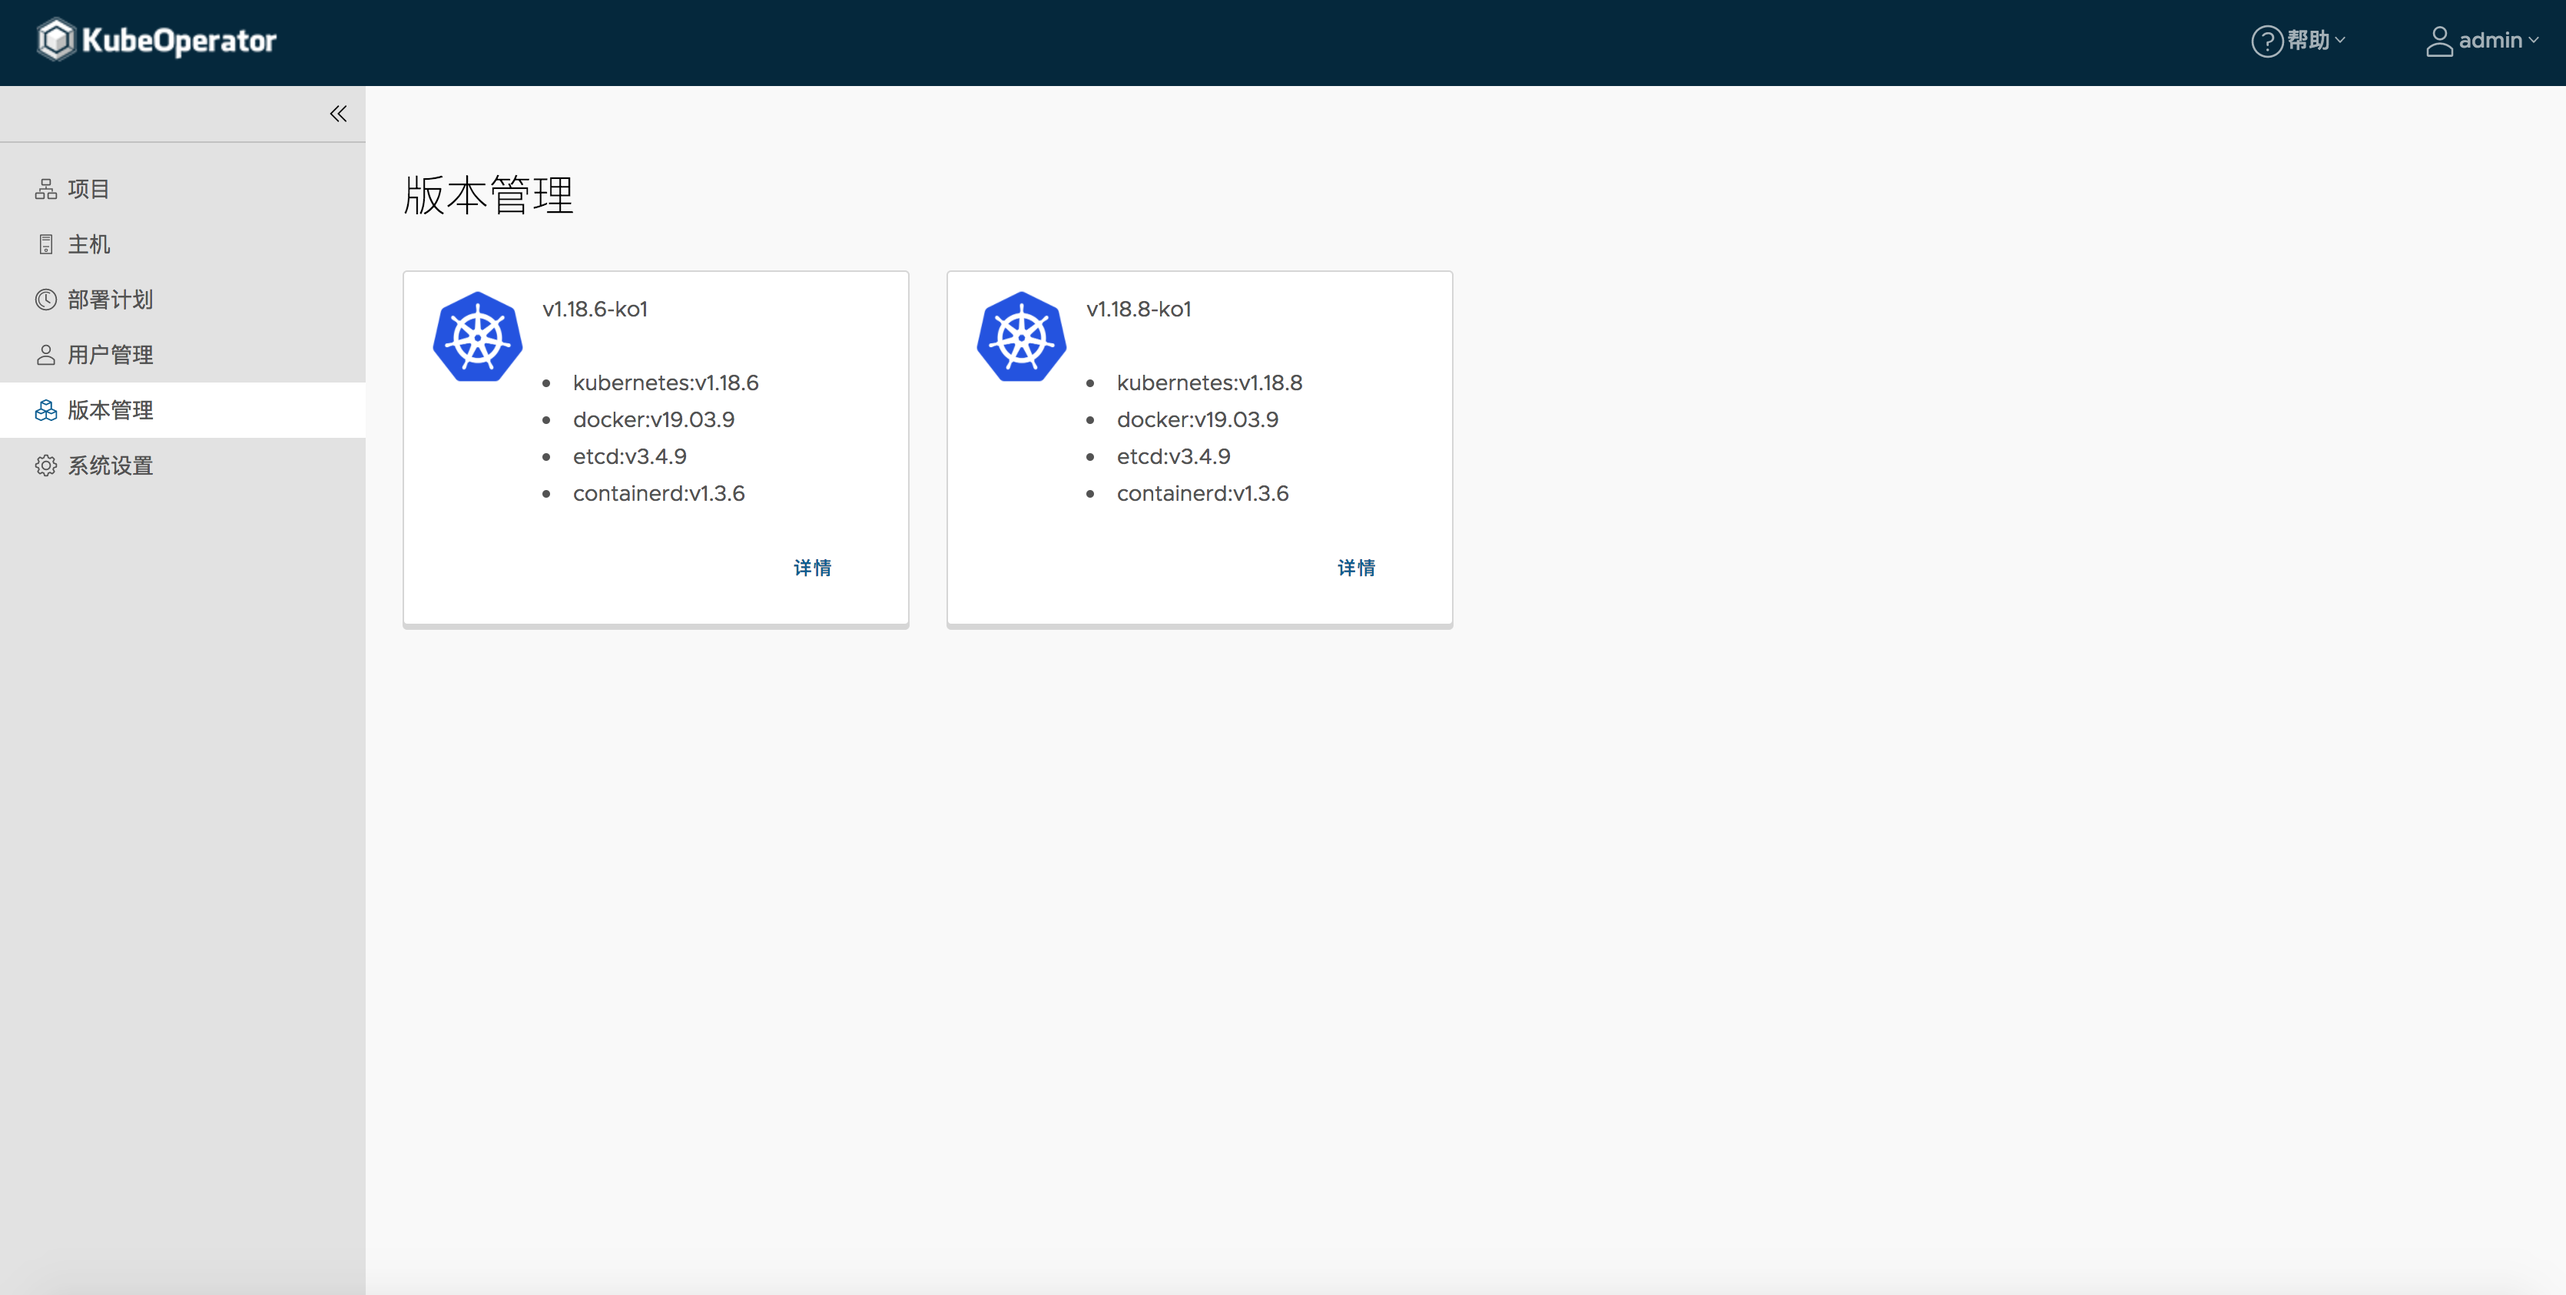
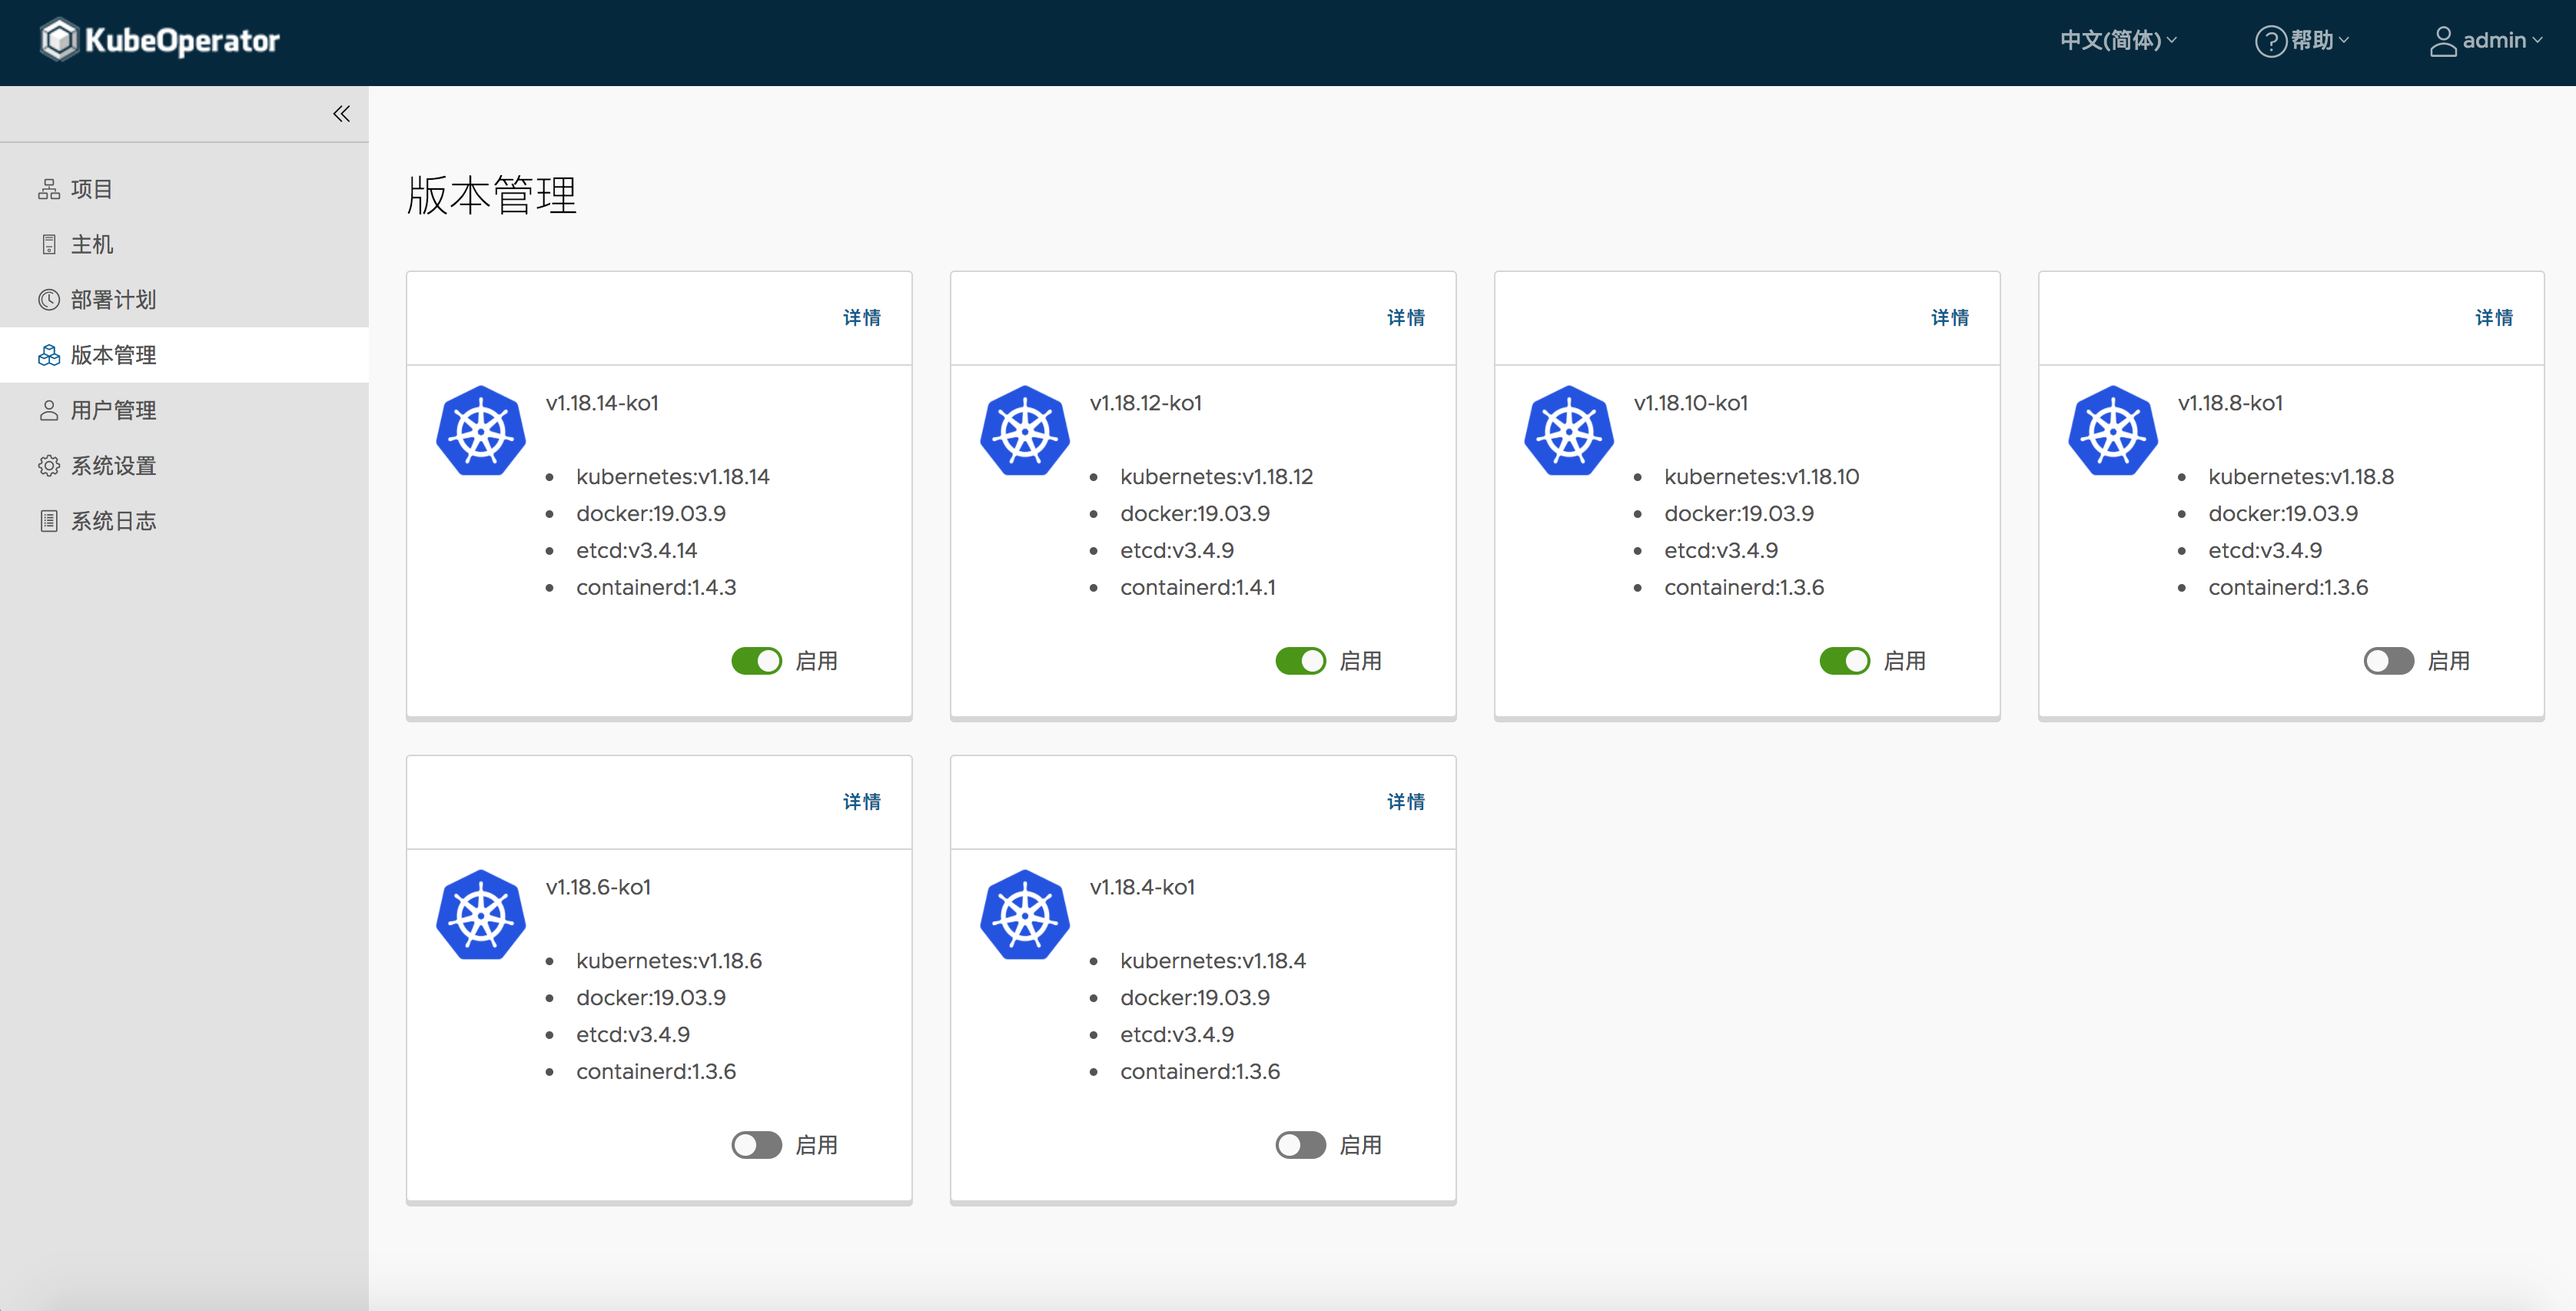
版本管理

diff --git a/docs/user_manual/version.md b/docs/user_manual/version.md
@@ -1,28 +1,73 @@
 
+### 版本详情
+
 !!! warning ""
-    用户可以在Web页面查看 Kubernetes 及各个组件的版本信息，方便管理员进行维护和升级
+    点击详情按钮，支持查看 Kubernetes 及各个组件的版本信息
+
+!!! info "核心"
+    * [kubernetes](https://github.com/kubernetes/kubernetes) v1.18.14
+    * [etcd](https://github.com/coreos/etcd) v3.4.14
+    * [docker](https://www.docker.com/) 19.03.9
+    * [containerd](https://containerd.io/) 1.4.3
+
+!!! info "网络"
+    * [calico](https://github.com/projectcalico/calico) v3.16.5
+    * [flanneld](https://github.com/coreos/flannel) v0.13.0
+
+!!! info "应用"
+    * [coredns](https://github.com/coredns/coredns) 1.8.0
+    * [traefik](https://github.com/containous/traefik) v2.2.1
+    * [ingress-nginx](https://github.com/kubernetes/ingress-nginx) 0.33.0
+    * [metrics-server](https://github.com/kubernetes-sigs/metrics-server) v0.3.6
+    * [helm-v2](https://github.com/helm/helm) v2.17.0
+    * [helm-v3](https://github.com/helm/helm) v3.4.1
+
+### 版本启用
+
+!!! warning ""
+    开启目标版本后，才支持创建该版本 k8s 集群
 
 ![region-1](../img/user_manual/version/version-1.png)
 
-![region-1](../img/user_manual/version/version-2.png)
+### 构建离线包
 
-!!! info "核心"
-    * [kubernetes](https://github.com/kubernetes/kubernetes) v1.18.4
-    * [etcd](https://github.com/coreos/etcd) v3.4.9
-    * [docker](https://www.docker.com/) v19.03.9
-    * [containerd](https://containerd.io/) v1.3.6
+!!! warning ""
+    离线包中 Kubernetes 默认只携带最新的两个版本。如果当前是离线环境，需要执行脚本生成旧版本 k8s 离线包，并推送至 nexus 仓库
 
-!!! info "网络"
-    * [calico](https://github.com/projectcalico/calico) v3.14.1
-    * [flanneld](https://github.com/coreos/flannel) v0.12.0
+#### 构建离线包
 
-!!! info "应用"
-    * [coredns](https://github.com/coredns/coredns) v1.6.7
-    * [helm](https://github.com/helm/helm) v3.2.4
-    * [traefik](https://github.com/containous/traefik) v2.2.1
-    * [ingress-nginx](https://github.com/kubernetes/ingress-nginx) v0.32.0
-    * [node-problem-detector](https://github.com/kubernetes/node-problem-detector) v0.8.1
-    * [metrics-server](https://github.com/kubernetes-sigs/metrics-server) v0.3.6
-    * [nfs-provisioner](https://github.com/kubernetes-incubator/external-storage) v3.1.0-k8s1.11
-    * [rook-ceph](https://github.com/rook/rook) v1.3.6
-    * [rbd-provisioner](https://github.com/kubernetes-incubator/external-storage) v2.1.1-k8s1.11
+!!! warning ""
+    执行构建离线包的服务器需要能够访问互联网
+
+!!! warning ""
+    ```sh
+    # 下载脚本
+    wget https://github.com/KubeOperator/KubeOperator/releases/latest/download/K8SVersionManage.tar.gz
+    # 解压并执行生成离线包脚本
+    tar zxvf K8SVersionManage.tar.gz
+    cd K8SVersionManage
+    # 例：打包 v1.18.10 版本的离线包 
+    bash build.sh v1.18.10
+    ```
+!!! warning ""
+    build 完成后，会生成类似 v1.18.10_offline.tar.gz的离线包
+
+#### 推送离线包
+
+!!! warning ""
+    将生成的目标版本离线包上传至 KubeOperator 部署机，运行上传脚本。
+
+!!! warning ""
+    ```sh
+    # 解压离线包
+    tar zxvf v1.18.10_offline.tar.gz
+    # 执行上传脚本
+    cd v1.18.10_offline
+    # 例：推送 v1.18.10 版本的离线包 
+    bash upload.sh
+    ```
+
+!!! warning ""
+    - 仓库地址：KubeOperator 默认仓库地址（registry.kubeoperator.io）
+    - 仓库用户名：KubeOperator 默认仓库用户名（admin）
+    - 仓库密码：KubeOperator 默认仓库密码（admin123）
